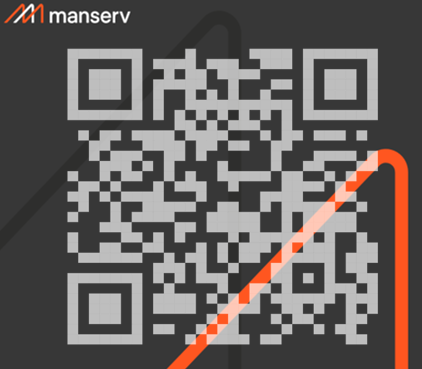
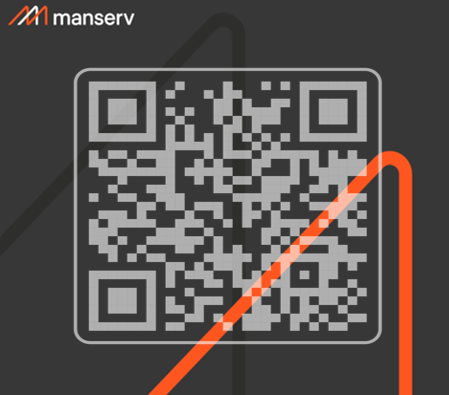
Atualização para abertura de OS´s

diff --git a/CSS/style.css b/CSS/style.css
@@ -25,7 +25,7 @@ body {
 }
 
 .card {
-    background-image: linear-gradient(to bottom, rgba(55,55,55,255), rgb(226,54,14,255));
+    background-image: linear-gradient(to bottom, rgba(55,55,55,255), rgba(226,54,14,255));
     padding: 18px;
     border-radius: 17px;
     text-align: center;
@@ -50,20 +50,27 @@ body {
     color: hsla(0, 0%, 99%, 0.72);
 }
 
-button {
-    margin-top: 7%;
-    border-radius: 5px 5px;
-    background-color: rgba(226,54,14,255);
-    padding: 5px 5px;
-}
-
-.text a {
+.btn {
     color: hsla(0, 0%, 99%, 0.72);
+    text-decoration: none;
+    background-color: rgba(228, 38, 0, 0.746);
+    padding: 5px;
+    border-radius: 6px;
+    box-shadow: 0px 0px 15px rgba(3, 2, 2, 0.439);
+    opacity: 0.4;
+    transition: 0.3s;
 }
 
-button :hover {
-    background-color: rgba(226,54,14,255);
-    border-radius: 5px 5px;
-    padding: 5px 5px;
-    margin-top: 7%;
+.btn:hover {
+    padding: 10px;
+    border-radius: 50px;
+    box-shadow: 0px 0px 12px rgba(3, 2, 2, 0.436);
+    opacity: 0.9;
+}
+
+.btn:active {
+    padding: 10px;
+    border-radius: 50px;
+    box-shadow: 0px 0px 12px rgba(3, 2, 2, 0.436);
+    opacity: 0.9;
 }

diff --git a/index.html b/index.html
@@ -10,7 +10,6 @@
 
 <style>
   body {
-    height: 10%;
     background-image: url('images/Teste.PNG');
     background-position: center center;
     backdrop-filter: blur(4px);
@@ -21,11 +20,11 @@
   <div class="container">
     <div class="card">
       <img src="images/Teste QR code programa padrinho MSV.PNG" alt="image-qr-code">
-      <div class="text">
-        <h2>Teste para implantação de QR code programa padrinho</h2>
-        <p>Arquivo utilizado somente Manut. Predial, após validação, será utilizado um código QR para cada equipamento/padrinho</p>
-        <p><button><a href="https://cdn.me-qr.com/pdf/14103728.pdf">Redirecionar</a></button></p>
-      </div>
+        <div class="text">
+          <h2>Teste para implantação de QR code para abertura de OS´s programa padrinho</h2>
+          <p>Escaneie o cód. QR ou precione o botão "Redirecionar" para acessar a plataforma de abertura de OS´s</p>
+        </div>
+      <a href="https://forms.gle/UwHorpbV68BEKs6q8" class="btn">Redirecionar</a>
     </div>
   </div>
 </body>
